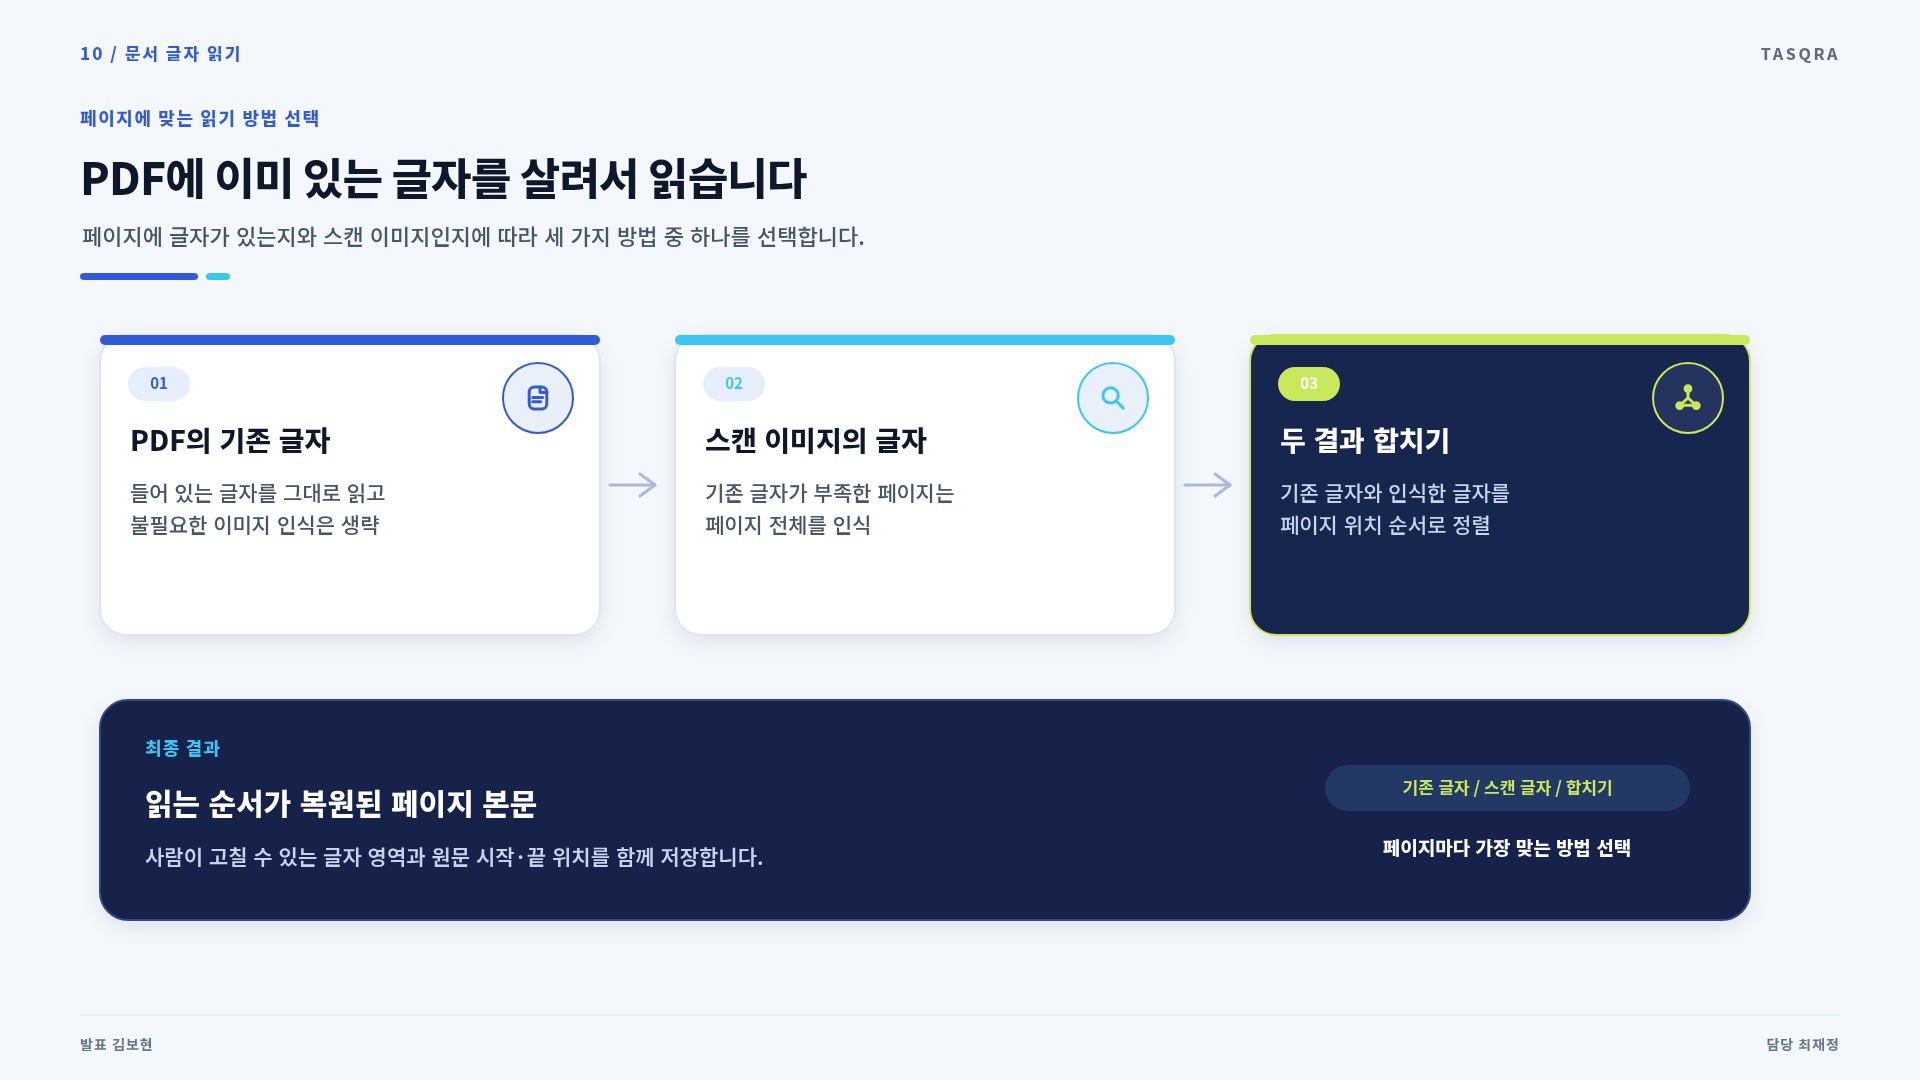
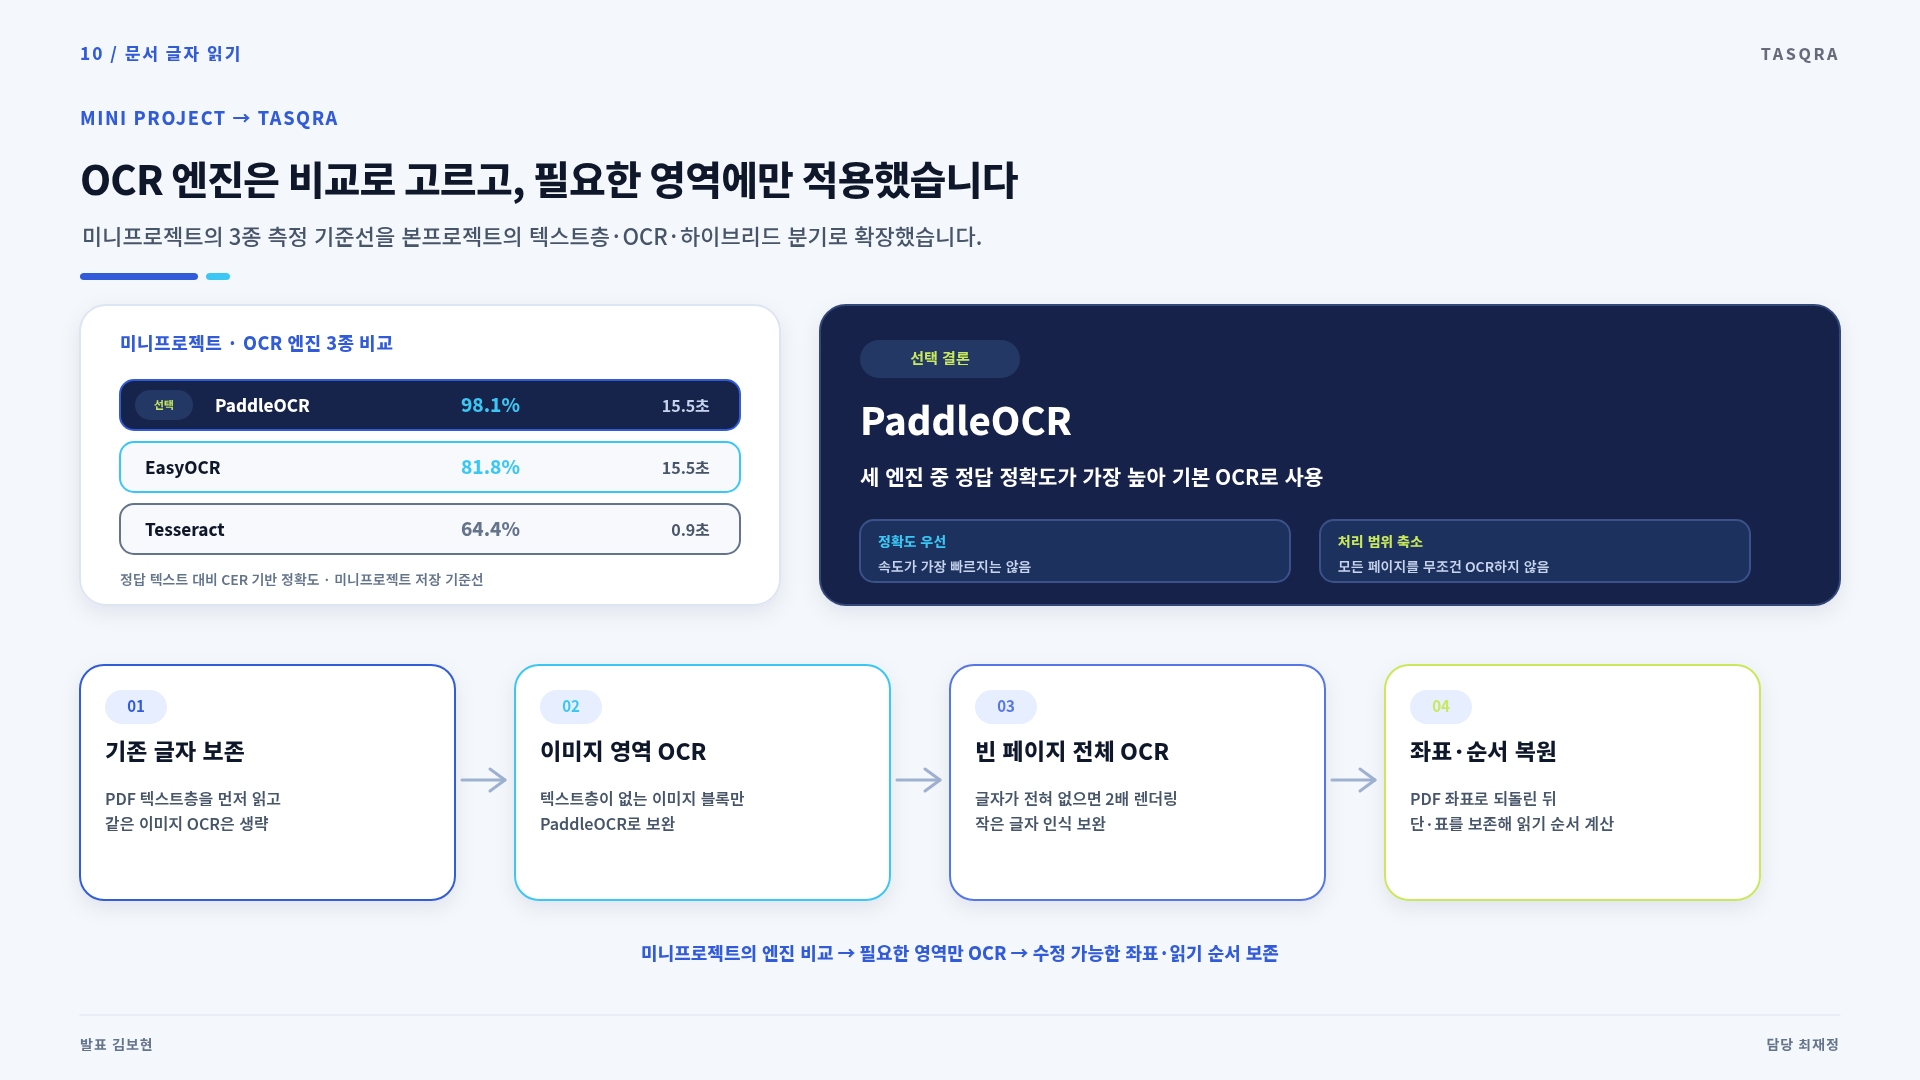
docs: 검색과 OCR 발표 근거 보강

diff --git a/도구/pptx/build_final_presentation_29.py b/도구/pptx/build_final_presentation_29.py
@@ -309,19 +309,67 @@ def slide9():
 
 def slide10():
     p = svg_base(10, "HYBRID SEARCH", "김보현", "김보현")
-    slide_title(p, "ONE SEARCH BOX", "하이브리드 검색", "서로 다른 점수를 더하지 않고, 두 검색의 순위를 RRF로 결합합니다.", size=44)
-    # two branches
-    card_title(p, 100, 330, "A", "키워드 검색", C["cyan"], width=570, height=390,
-               body_lines=("ILIKE로 연속 문자열 포함 보장", "word_similarity로 내부 순위", "숫자·코드·정확 표현에 강점"), icon_kind="document", dark=True, heading_size=26, body_size=18)
-    card_title(p, 1250, 330, "B", "의미 검색", C["blue2"], width=570, height=390,
-               body_lines=("질의·청크 임베딩", "pgvector 코사인 거리", "표현이 달라도 문맥 탐색"), icon_kind="search", dark=True, heading_size=26, body_size=18)
-    p.append(circle(960, 515, 130, C["lime"], stroke="#A9C932", sw=4, extra='filter="url(#shadow)"'))
-    p.append(text(960, 493, "RRF", 40, 800, C["rail"], anchor="middle"))
-    p.append(text(960, 545, "Σ 1 / (60 + 순위)", 16, 800, C["rail"], anchor="middle"))
-    p.append(arrow(690, 515, 810, 515, C["cyan"], 5)); p.append(arrow(1230, 515, 1110, 515, C["blue2"], 5))
-    small_note(p, 100, 780, 520, "후보 폭", "두 검색에서 각각 기본 30개", color=C["blue"])
-    small_note(p, 700, 780, 520, "단일 UX", "사용자는 검색 방식을 고르지 않음", color=C["cyan"])
-    small_note(p, 1300, 780, 520, "주의", "전문 검색엔진·점수 정규화·가중합 아님", color=C["lime"])
+    slide_title(
+        p,
+        "COMPLEMENTARY RETRIEVAL",
+        "서로 다른 누락 위험을 한 검색창에서 보완했습니다",
+        "단일 검색 대비 성능 실험은 아직 없으며, 아래 내용은 성능 입증이 아닌 설계 근거입니다.",
+        size=42,
+    )
+
+    # 두 검색은 강점보다 '각자 무엇을 놓치는가'를 먼저 보여 준다.
+    search_cards = [
+        (
+            80,
+            "A",
+            "키워드 검색",
+            "정확한 글자에 강함",
+            ("계약번호 · 금액 · 날짜", "연속 문자열은 반드시 포함"),
+            "놓침  ·  ‘휴가 규정’으로 ‘연차 사용 기준’ 찾기",
+            C["cyan"],
+            "document",
+        ),
+        (
+            1160,
+            "B",
+            "의미 검색",
+            "표현이 달라도 뜻을 찾음",
+            ("질문·문서 조각 임베딩", "pgvector 코사인 순위"),
+            "놓침  ·  번호·금액처럼 글자 자체가 정답인 표현",
+            C["blue2"],
+            "search",
+        ),
+    ]
+    for x, no, heading, strength, body, miss, accent, kind in search_cards:
+        p.append(panel(x, 320, 680, 350, fill=C["navy"], stroke=accent, rx=28, shadow=True))
+        p.append(number_badge(x + 30, 350, no, accent, dark=True))
+        p.append(circle(x + 605, 392, 38, "#24345F", stroke=accent, sw=2))
+        p.append(icon(kind, x + 605, 392, 34, accent, 3))
+        p.append(text(x + 30, 450, heading, 30, 800, "#FFFFFF"))
+        p.append(text(x + 30, 495, strength, 17, 800, accent, spacing=.3))
+        p.append(multiline(x + 30, 540, body, 18, 600, "#C8D4EC", line_height=1.5))
+        p.append(panel(x + 30, 600, 620, 48, fill="#1D315F", stroke="#3A5289", rx=14, shadow=False))
+        p.append(text(x + 50, 631, miss, 15, 700, "#FFFFFF"))
+
+    # 점수의 단위가 다르므로 가운데에서는 순위만 사용한다.
+    p.append(circle(960, 495, 130, C["lime"], stroke="#A9C932", sw=4, extra='filter="url(#shadow)"'))
+    p.append(text(960, 477, "RRF", 38, 800, C["rail"], anchor="middle"))
+    p.append(text(960, 520, "순위만 합산", 18, 800, C["rail"], anchor="middle"))
+    p.append(text(960, 551, "각 상위 30개", 14, 700, C["rail"], anchor="middle"))
+    p.append(arrow(770, 495, 815, 495, C["cyan"], 4))
+    p.append(arrow(1150, 495, 1105, 495, C["blue2"], 4))
+
+    reasons = [
+        (80, "왜 점수를 더하지 않았나", ("글자 유사도와 벡터 거리는", "단위·분포가 달라 직접 비교 불가"), C["blue"]),
+        (650, "왜 RRF인가", ("정규화·가중치 가정 없이", "각 검색에서 앞선 순위만 사용"), C["cyan"]),
+        (1220, "어디까지 말할 수 있나", ("서로 다른 누락 위험을 보완한 설계", "단일 검색 대비 성능 수치는 아직 없음"), C["lime"]),
+    ]
+    for x, heading, body, accent in reasons:
+        p.append(panel(x, 735, 520, 180, fill=C["panel"], stroke=C["border"], rx=22, shadow=False))
+        p.append(rect(x, 735, 7, 180, accent, rx=4))
+        p.append(text(x + 28, 780, heading, 20, 800, C["text"]))
+        p.append(multiline(x + 28, 825, body, 16, 600, C["body"], line_height=1.55))
+    p.append(text(960, 970, "결론  ·  성능을 입증한 장이 아니라, 두 검색을 함께 둔 이유를 설명하는 장입니다.", 18, 800, C["blue"], anchor="middle"))
     return finish(p)
 
 
@@ -566,22 +614,61 @@ def slide17():
 
 def slide18():
     p = svg_base(18, "OCR EVOLUTION", "박세현", "최재정")
-    slide_title(p, "PARK SEHYEON SECTION", "PDF에 이미 있는 글자를 살려서 읽습니다", "페이지에 글자가 있는지와 스캔 이미지인지에 따라 세 가지 방법 중 하나를 선택합니다.", size=44)
-    modes=[
-        ("01","PDF의 기존 글자",("들어 있는 글자를 그대로 읽고", "불필요한 이미지 인식은 생략"),C["blue"],"document"),
-        ("02","스캔 이미지의 글자",("기존 글자가 부족한 페이지는", "페이지 전체를 인식"),C["cyan"],"search"),
-        ("03","두 결과 합치기",("기존 글자와 인식한 글자를", "페이지 위치 순서로 정렬"),C["lime"],"structure"),
+    slide_title(
+        p,
+        "MINI PROJECT → TASQRA",
+        "OCR 엔진은 비교로 고르고, 필요한 영역에만 적용했습니다",
+        "미니프로젝트의 3종 측정 기준선을 본프로젝트의 텍스트층·OCR·하이브리드 분기로 확장했습니다.",
+        size=40,
+    )
+
+    # 미니프로젝트에서 실제로 남긴 엔진 비교 기준선.
+    p.append(panel(80, 305, 700, 300, fill=C["panel"], stroke=C["border"], rx=26, shadow=True))
+    p.append(text(120, 350, "미니프로젝트  ·  OCR 엔진 3종 비교", 18, 800, C["blue"], spacing=.5))
+    engines = [
+        ("PaddleOCR", "98.1%", "15.5초", C["blue"], True),
+        ("EasyOCR", "81.8%", "15.5초", C["cyan"], False),
+        ("Tesseract", "64.4%", "0.9초", C["muted"], False),
     ]
-    xs=[100,675,1250]
-    for i,(mode,head,body,accent,kind) in enumerate(modes):
-        card_title(p,xs[i],335,mode,head,accent,width=500,height=300,body_lines=body,icon_kind=kind,dark=(i==2),heading_size=28,body_size=21)
-    p.append(arrow(610,485,655,485,"#A9BADA",3));p.append(arrow(1185,485,1230,485,"#A9BADA",3))
-    p.append(panel(100,700,1650,220,fill=C["navy"],stroke="#31477A",rx=28,shadow=True))
-    p.append(text(145,755,"최종 결과",18,800,C["cyan"],spacing=1.2))
-    p.append(text(145,815,"읽는 순서가 복원된 페이지 본문",30,800,"#FFFFFF"))
-    p.append(text(145,865,"사람이 고칠 수 있는 글자 영역과 원문 시작·끝 위치를 함께 저장합니다.",21,600,"#C7D3EC"))
-    p.append(pill(1325,765,365,46,"기존 글자 / 스캔 글자 / 합치기","#243866",C["lime"],size=17))
-    p.append(text(1507,855,"페이지마다 가장 맞는 방법 선택",19,800,"#FFFFFF",anchor="middle"))
+    for i, (name, accuracy, latency, accent, selected) in enumerate(engines):
+        y = 380 + i * 62
+        p.append(panel(y= y, x=120, w=620, h=50, fill=C["navy"] if selected else "#F7F9FD", stroke=accent, rx=14, shadow=False))
+        if selected:
+            p.append(pill(135, y + 10, 58, 30, "선택", "#243866", C["lime"], size=11))
+        p.append(text(215 if selected else 145, y + 32, name, 17, 800, "#FFFFFF" if selected else C["text"]))
+        p.append(text(520, y + 32, accuracy, 19, 800, accent if not selected else C["cyan"], anchor="end"))
+        p.append(text(710, y + 32, latency, 16, 700, "#C8D4EC" if selected else C["body"], anchor="end"))
+    p.append(text(120, 585, "정답 텍스트 대비 CER 기반 정확도  ·  미니프로젝트 저장 기준선", 14, 600, C["muted"]))
+
+    # 숫자에서 선택 이유와 한계를 분리한다.
+    p.append(panel(820, 305, 1020, 300, fill=C["navy"], stroke="#31477A", rx=26, shadow=True))
+    p.append(pill(860, 340, 160, 38, "선택 결론", "#243866", C["lime"], size=15))
+    p.append(text(860, 435, "PaddleOCR", 38, 800, "#FFFFFF"))
+    p.append(text(860, 485, "세 엔진 중 정답 정확도가 가장 높아 기본 OCR로 사용", 21, 700, "#FFFFFF"))
+    choice_notes = [
+        (860, "정확도 우선", "속도가 가장 빠르지는 않음", C["cyan"]),
+        (1320, "처리 범위 축소", "모든 페이지를 무조건 OCR하지 않음", C["lime"]),
+    ]
+    for x, heading, body, accent in choice_notes:
+        p.append(panel(x, 520, 430, 62, fill="#1D315F", stroke="#3A5289", rx=14, shadow=False))
+        p.append(text(x + 18, 547, heading, 14, 800, accent))
+        p.append(text(x + 18, 572, body, 14, 600, "#C8D4EC"))
+
+    # 본프로젝트에서 실제 페이지를 읽는 분기와 좌표 복원 흐름.
+    steps = [
+        (80, "01", "기존 글자 보존", ("PDF 텍스트층을 먼저 읽고", "같은 이미지 OCR은 생략"), C["blue"]),
+        (515, "02", "이미지 영역 OCR", ("텍스트층이 없는 이미지 블록만", "PaddleOCR로 보완"), C["cyan"]),
+        (950, "03", "빈 페이지 전체 OCR", ("글자가 전혀 없으면 2배 렌더링", "작은 글자 인식 보완"), C["blue2"]),
+        (1385, "04", "좌표·순서 복원", ("PDF 좌표로 되돌린 뒤", "단·표를 보존해 읽기 순서 계산"), C["lime"]),
+    ]
+    for i, (x, no, heading, body, accent) in enumerate(steps):
+        p.append(panel(x, 665, 375, 235, fill=C["panel"], stroke=accent, rx=24, shadow=True))
+        p.append(number_badge(x + 25, 690, no, accent))
+        p.append(text(x + 25, 760, heading, 23, 800, C["text"]))
+        p.append(multiline(x + 25, 805, body, 16, 600, C["body"], line_height=1.55))
+        if i < 3:
+            p.append(arrow(x + 382, 780, steps[i + 1][0] - 10, 780, "#9FB1D1", 3))
+    p.append(text(960, 960, "미니프로젝트의 엔진 비교  →  필요한 영역만 OCR  →  수정 가능한 좌표·읽기 순서 보존", 18, 800, C["blue"], anchor="middle"))
     return finish(p)
 
 
@@ -589,17 +676,21 @@ def slide19():
     p = svg_base(19, "OCR REVIEW", "박세현", "최재정")
     slide_title(p, "TEXT INTEGRITY", "글자 인식 결과를 고치면 검색용 본문도 함께 고칩니다", "수정 범위, 본문, 뒤 문장의 위치, 문서 버전을 한 번에 바꿔 서로 어긋나지 않게 합니다.", size=43)
     p.append(panel(80,300,1760,335,fill="#F8FAFD",stroke=C["border"],rx=28,shadow=False))
-    p.append(text(120,350,"한 번에 모두 처리",16,800,C["blue"],spacing=1.3))
+    p.append(pill(115,325,145,36,"미니프로젝트",C["soft_blue"],C["blue"],size=13))
+    p.append(text(280,350,"엔진 비교 · 좌표 정렬",16,800,C["body"]))
+    p.append(arrow(520,343,600,343,"#9EB0CE",3))
+    p.append(pill(625,325,145,36,"본프로젝트",C["navy"],C["cyan"],size=13))
+    p.append(text(790,350,"박스 편집 · 선택 재OCR · 검색 본문 동기화",16,800,C["text"]))
     p.append(pill(1510,325,275,38,"시작  →  저장 완료",C["soft_blue"],C["navy"],size=15))
     stages=[
-        ("01","박스 수정",C["blue"]),("02","범위 검증",C["cyan"]),("03","본문 구간 교체",C["lime"]),
+        ("01","박스 수정·재OCR",C["blue"]),("02","범위 검증",C["cyan"]),("03","본문 구간 교체",C["lime"]),
         ("04","뒤 문장 위치 조정",C["blue2"]),("05","문서 버전 올리기",C["cyan"]),("06","검수 재확정",C["lime"]),
     ]
     xs=[105,395,685,975,1265,1555]
     for i,(no,head,accent) in enumerate(stages):
         p.append(panel(xs[i],405,255,130,fill=C["panel"],stroke=accent,rx=24,shadow=True,sw=3))
         p.append(pill(xs[i]+20,425,58,32,no,C["soft_blue"],accent,size=14))
-        p.append(text(xs[i]+127,500,head,17 if i in {3,4} else 19,800,C["text"],anchor="middle"))
+        p.append(text(xs[i]+127,500,head,16 if i in {0,3,4} else 19,800,C["text"],anchor="middle"))
         if i<5:p.append(arrow(xs[i]+262,470,xs[i+1]-8,470,"#9EB0CE",3))
     p.append(text(120,590,"수정한 글자 수만큼 뒤 문장들의 시작·끝 위치도 함께 옮깁니다.",18,700,C["body"]))
     p.append(panel(80,680,835,225,fill=C["navy"],stroke="#31477A",rx=28,shadow=True))

diff --git a/산출물/최종발표/최종발표_29장_구성.md b/산출물/최종발표/최종발표_29장_구성.md
@@ -13,10 +13,10 @@
 | 7 | 핵심 데이터 구조 | Project와 Document를 중심으로 검색·분석·업무 데이터가 연결된다 | 중앙 엔터티 + 관계형 ERD 요약 | 김보현 / 최재정 |
 | 8 | 상태를 분리한 운영 설계 | 문서 추출·OCR 검수·LLM 분석은 서로 다른 상태로 관리한다 | 3개 상태 레일 | 김보현 / 최재정·박세현 |
 | 9 | 비동기 작업·실패 처리 | 실패 범위를 나눠 이미 성공한 단계는 유지하고 필요한 작업만 다시 실행한다 | OCR 재시도와 LLM PARTIAL 두 레일 | 김보현 / 박세현·최재정 |
-| 10 | PDF 글자·OCR 처리 | 기존 글자를 보존하고 필요한 페이지에만 OCR한 뒤 읽는 순서로 합친다 | 기존 글자/OCR/결합 3분기 | 김보현 / 최재정 |
-| 11 | OCR 수정·검색 본문 동기화 | OCR 박스 수정 시 본문·뒤 요소 위치·문서 버전을 함께 갱신한다 | 6단계 무결성 흐름 | 김보현 / 최재정 |
+| 10 | OCR 엔진 선택·PDF 처리 | 미니프로젝트 3종 비교에서 PaddleOCR를 선택하고, 본프로젝트에서는 필요한 영역에만 OCR한다 | 엔진 기준선 3개 + 텍스트층/영역/전체 OCR·좌표 복원 흐름 | 김보현 / 최재정 |
+| 11 | OCR 수정·검색 본문 동기화 | 박스 수정·선택 재OCR 시 본문·뒤 요소 위치·문서 버전을 함께 갱신한다 | 미니→본프로젝트 확장 + 6단계 무결성 흐름 | 김보현 / 최재정 |
 | 12 | 문서 분할·임베딩 색인 | 구조·토큰 기준 청킹과 1024차원 임베딩으로 원문 위치가 있는 근거를 찾는다 | 색인→검색 파이프라인 | 김보현 / 김보현 |
-| 13 | 하이브리드 검색 | 키워드와 의미 검색 결과를 점수가 아닌 RRF 순위로 결합한다 | 두 검색 다리 + RRF | 김보현 / 김보현 |
+| 13 | 하이브리드 검색 | 키워드·의미 검색의 서로 다른 누락 위험을 RRF 순위 결합으로 보완한다. 단일 검색 대비 성능은 아직 미측정이다 | 누락 사례 2개 + RRF 선택 이유 + 증명 범위 | 김보현 / 김보현 |
 | 14 | 검색 규모 실험 | 후보 30에서는 R@1 90.2%, 전체 1,339청크에서는 36.9%였다 | R@1·R@5 선그래프 + 조건 카드 | 김보현 / 김보현·박세현 |
 | 15 | 근거 질의응답 | 검색 원문과 근거 ID 검증으로 문서명·페이지·원문 위치를 함께 반환한다 | 검색→조립→LLM→검증 흐름 | 김보현 / 김보현 |
 | 16 | 사람 검토 | AI 제안은 정보 종류에 맞는 검토를 통과해야 소비된다 | 유형별 검토 카드 3개 | 김보현 / 김보현·최재정 |

diff --git a/산출물/최종발표/세현님_발표흐름_및_대본준비.md b/산출물/최종발표/세현님_발표흐름_및_대본준비.md
@@ -36,13 +36,13 @@
 7. 프로젝트·문서 중심 데이터 연결 관계
 8. 문서 추출·OCR 검수·AI 분석 상태를 분리한 이유
 9. 오래 걸리는 작업의 재시도와 부분 실패 처리
-10. 기존 PDF 글자·스캔 OCR·두 결과 결합 — 구현 최재정
-11. OCR 수정과 검색 본문 동기화 — 구현 최재정
+10. 미니프로젝트 3종 비교로 PaddleOCR를 선택하고, 텍스트층·이미지 영역·전체 페이지를 분기 처리 — 구현 최재정
+11. 박스 수정·선택 재OCR과 검색 본문 동기화 — 구현 최재정
 
 ### 12~20번 — 검색에서 업무 연결과 임베딩 선택까지 · 김보현
 
 12. 문서 분할과 임베딩 색인
-13. 키워드·의미 결과를 RRF로 합치는 하이브리드 검색
+13. 키워드·의미 검색의 서로 다른 누락 사례와 점수 대신 RRF 순위를 합친 설계 근거
 14. 검색 범위가 커졌을 때 정확도가 낮아진 실험
 15. 문서명·페이지·원문 위치를 제공하는 근거 질의응답
 16. 정보 종류별 사람 검토
